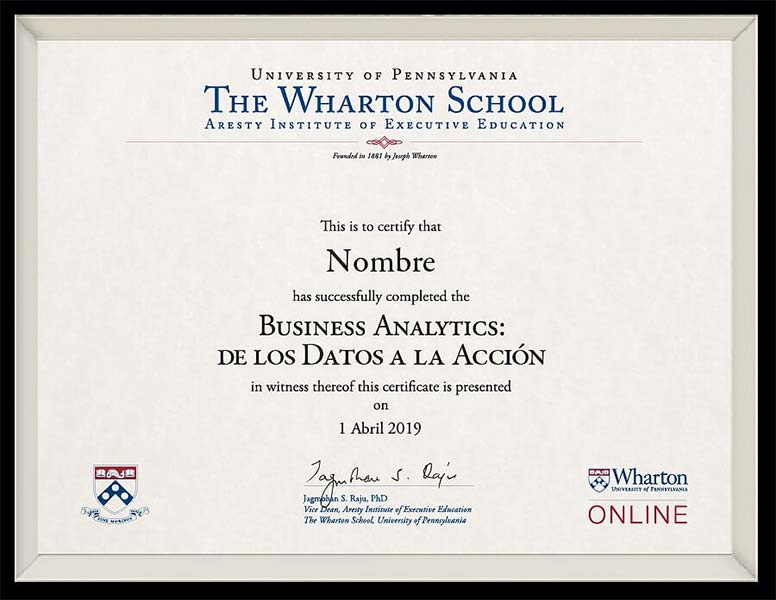
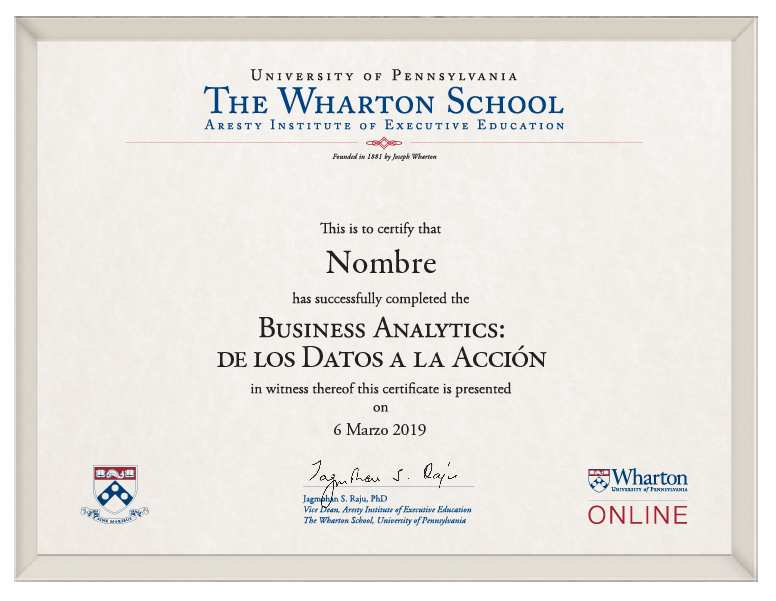
ajustes de imagenes

diff --git a/index.html b/index.html
@@ -66,7 +66,7 @@
         </div>
         <div class="price-container">
             <div class="whitSBo fs20 negro4B">
-                01 / 04 / 19
+                06 / 03 / 19
             </div>
             <div class="whitMe fs16 negro19">
                 8 SEMANAS
@@ -102,7 +102,7 @@
                             <input type="text" value="" class="whitLi mdl-textfield__input" id="tb_pais" readonly>
                             <input type="hidden" value="" name="tb_pais">
                             <i class="mdl-icon-toggle__label material-icons">keyboard_arrow_down</i>
-                            <label for="sample3" class="grapRe mdl-textfield__label">País</label>
+                            <label for="sample3" class="whitLi mdl-textfield__label">País</label>
                             <ul for="sample3" class="mdl-menu mdl-menu--bottom-left mdl-js-menu">
                                 <li class="whitLi mdl-menu__item" data-val="DEU">Germany</li>
                                 <li class="whitLi mdl-menu__item" data-val="BLR">Belarus</li>
